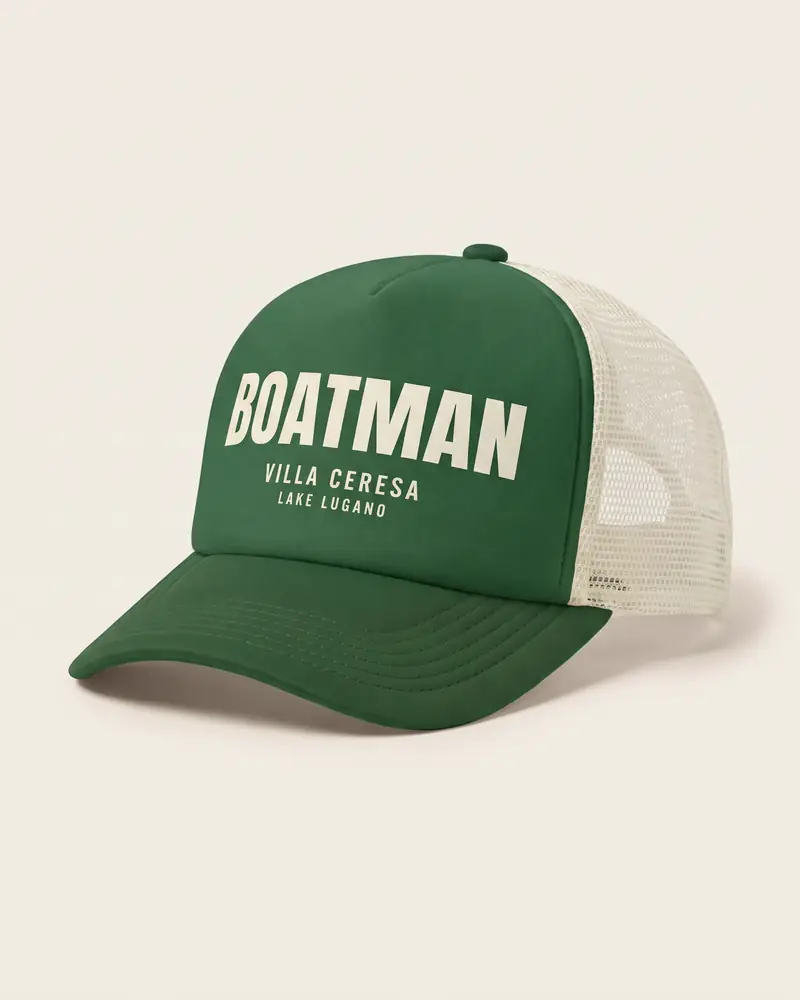
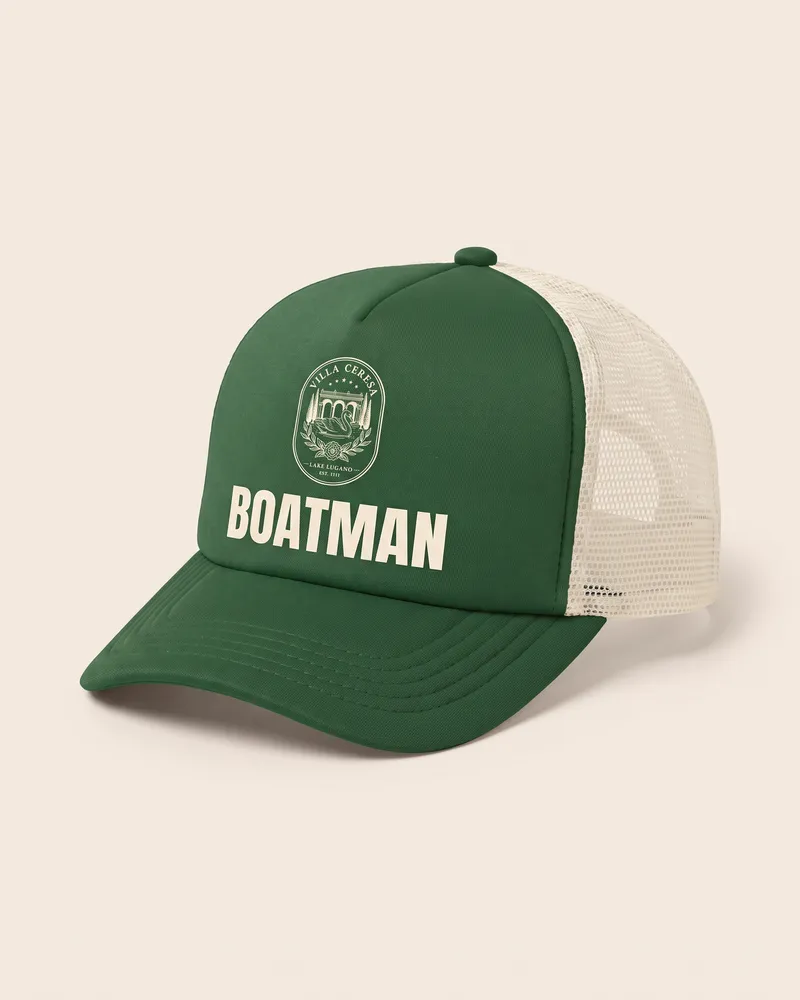
Hat Check caps: switch to option C print (crest over job title)
Alex picked crest and title. Redid the draft art, product shots, scenes and hero.

Claude-Session: https://claude.ai/code/session_01VKpSUGtU2j83FFr4XgcnwY

diff --git a/CHANGELOG.md b/CHANGELOG.md
@@ -3,7 +3,7 @@
 Newest first. `## YYYY-MM-DD · brand · what changed`, then why.
 
 ## 2026-10-26 · off-duty-hotel-club · Hat Check caps (proposed)
-Added a proposed trucker-cap line (one cap per hotel), its draft front art (`artwork/caps/`) and generated photography (`assets/photography/caps/`) for the Hat Check preview site on Base44. Merch spec in `merch.md` under "Caps". Also carries `assets/crests/villa-ceresa.svg` from the Head Gardener branch. Nothing here is approved yet.
+Added a proposed trucker-cap line (one cap per hotel), its draft front art (`artwork/caps/`) and generated photography (`assets/photography/caps/`) for the Hat Check preview site on Base44. Merch spec in `merch.md` under "Caps". Also carries `assets/crests/villa-ceresa.svg` from the Head Gardener branch. Nothing here is approved yet. Later the same day: the print is now option C (crest over the job title), picked by Alex; art and photography redone to match.
 
 ## 2026-10-21 · edgework · Manila tokens and button arrows
 Added `manila` and `manila-ink` for the essay folders on the new Edgework site, and allowed "→" inside buttons, matching what the site does. Ran the page and copy checklists against the site.

diff --git a/brands/off-duty-hotel-club/merch.md b/brands/off-duty-hotel-club/merch.md
@@ -51,6 +51,6 @@ A trucker-cap line, one per hotel, each for a department that works outside (mos
 | Night Porter | Grand Valbrune, St. Moritz | burgundy / cream / burgundy | cream `#f1e6d2` |
 | Boatman | Villa Ceresa, Lake Lugano | cypress green / cream / cypress green | cream `#f1e6d2` |
 
-- Front: the job title in Anton across the foam panel, hotel name and town beneath in Oswald 500, tracked like the shirt backs. Draft art in `artwork/caps/` (raster drafts, not print files yet).
+- Front (picked by Alex, 26 Oct 2026, option C): the hotel crest centred on the foam panel, the job title in Anton beneath it, one ink. Options A (title, hotel and town in Oswald) and B (crest only) were dropped. Draft art in `artwork/caps/` (raster drafts, not print files yet).
 - Boatman moved from orange-on-lawn-green to cream on cypress green: orange and lawn green are the same lightness and merge for colour-blind viewers.
 - Photography in `assets/photography/caps/`: `-front` and `-side` on `stone`, `-scene` on location, and `hero-hat-check.webp`. Design visualisations (nano-banana-pro edit from the draft art) until samples exist.
